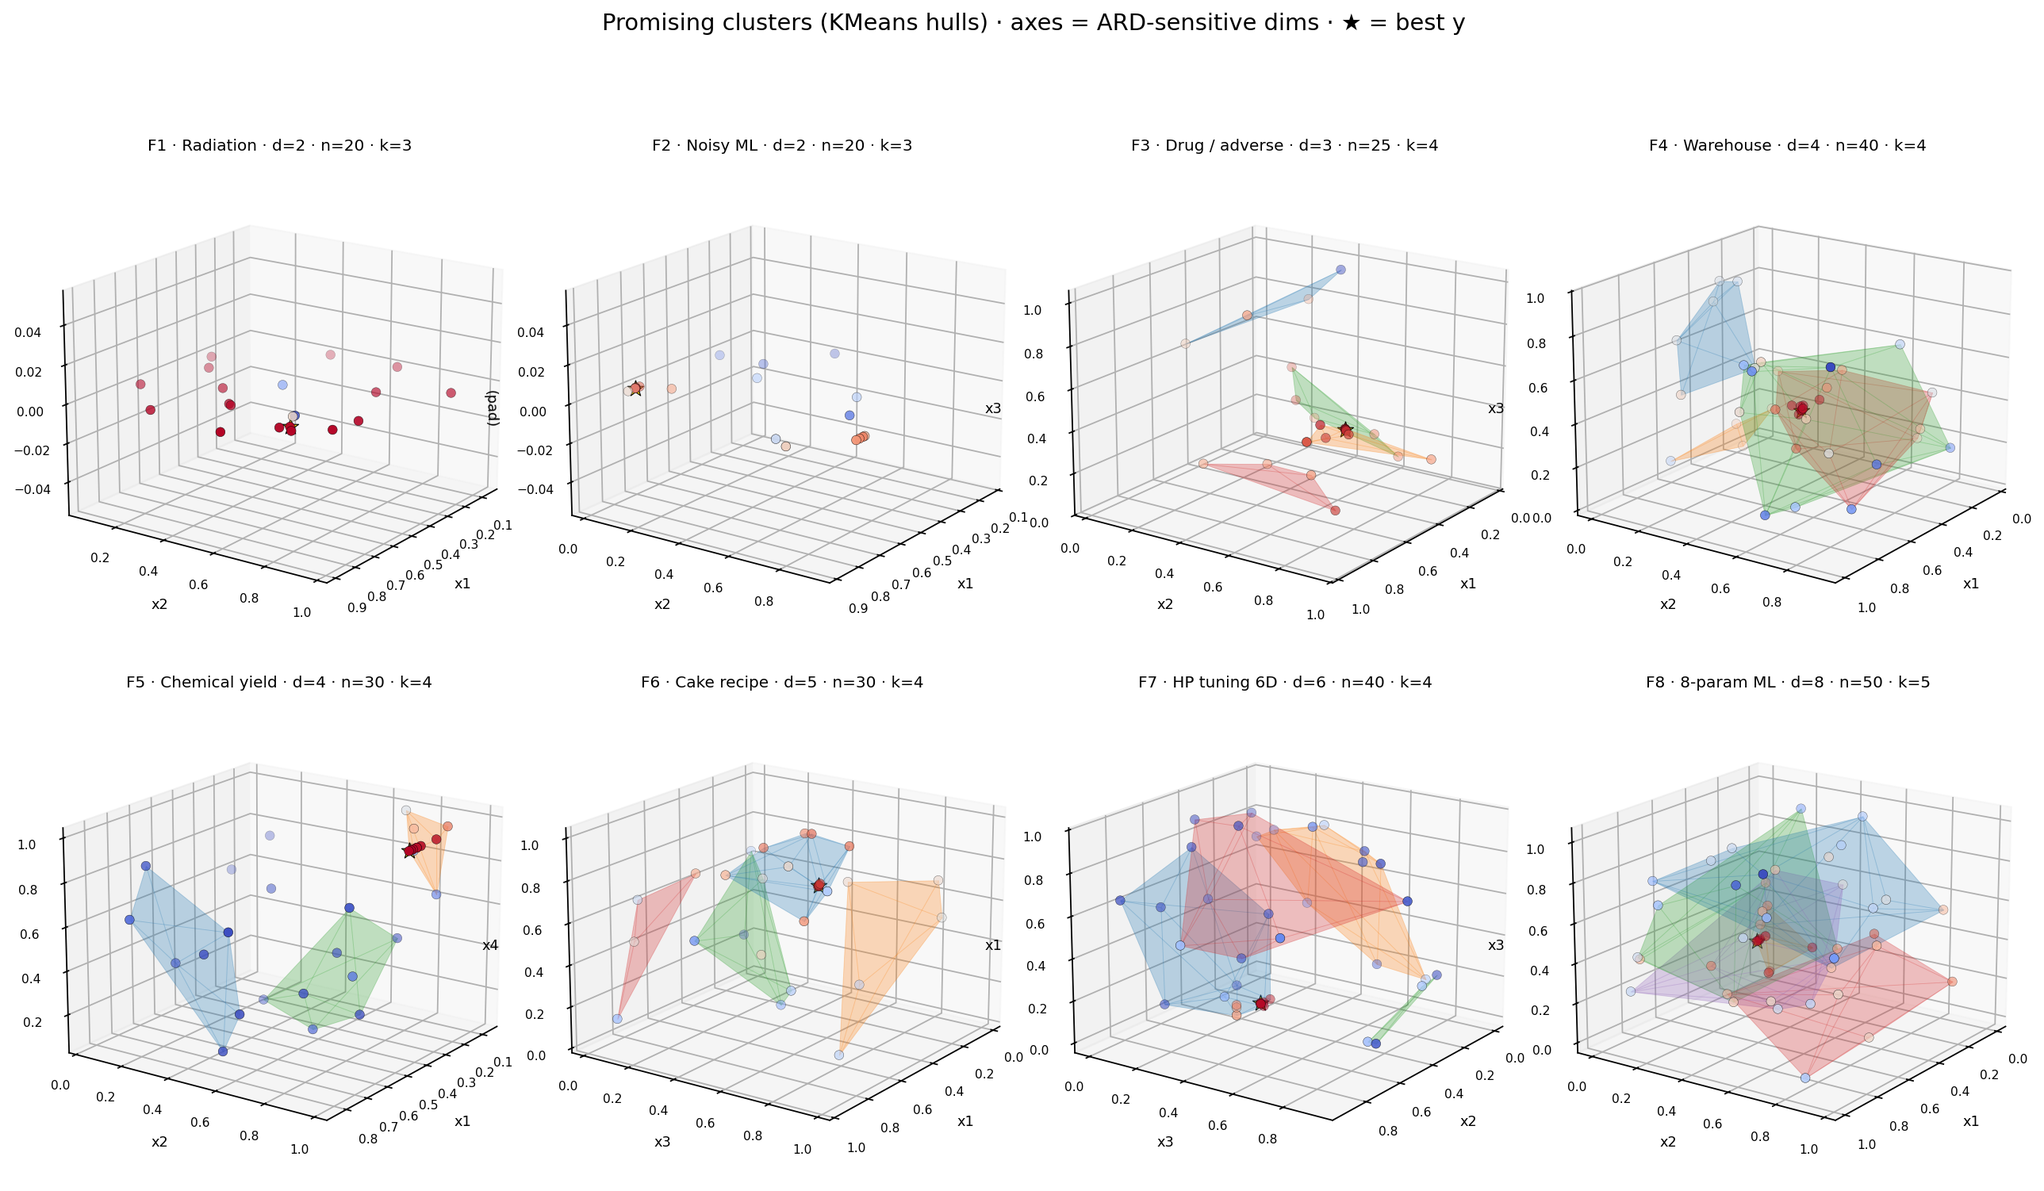
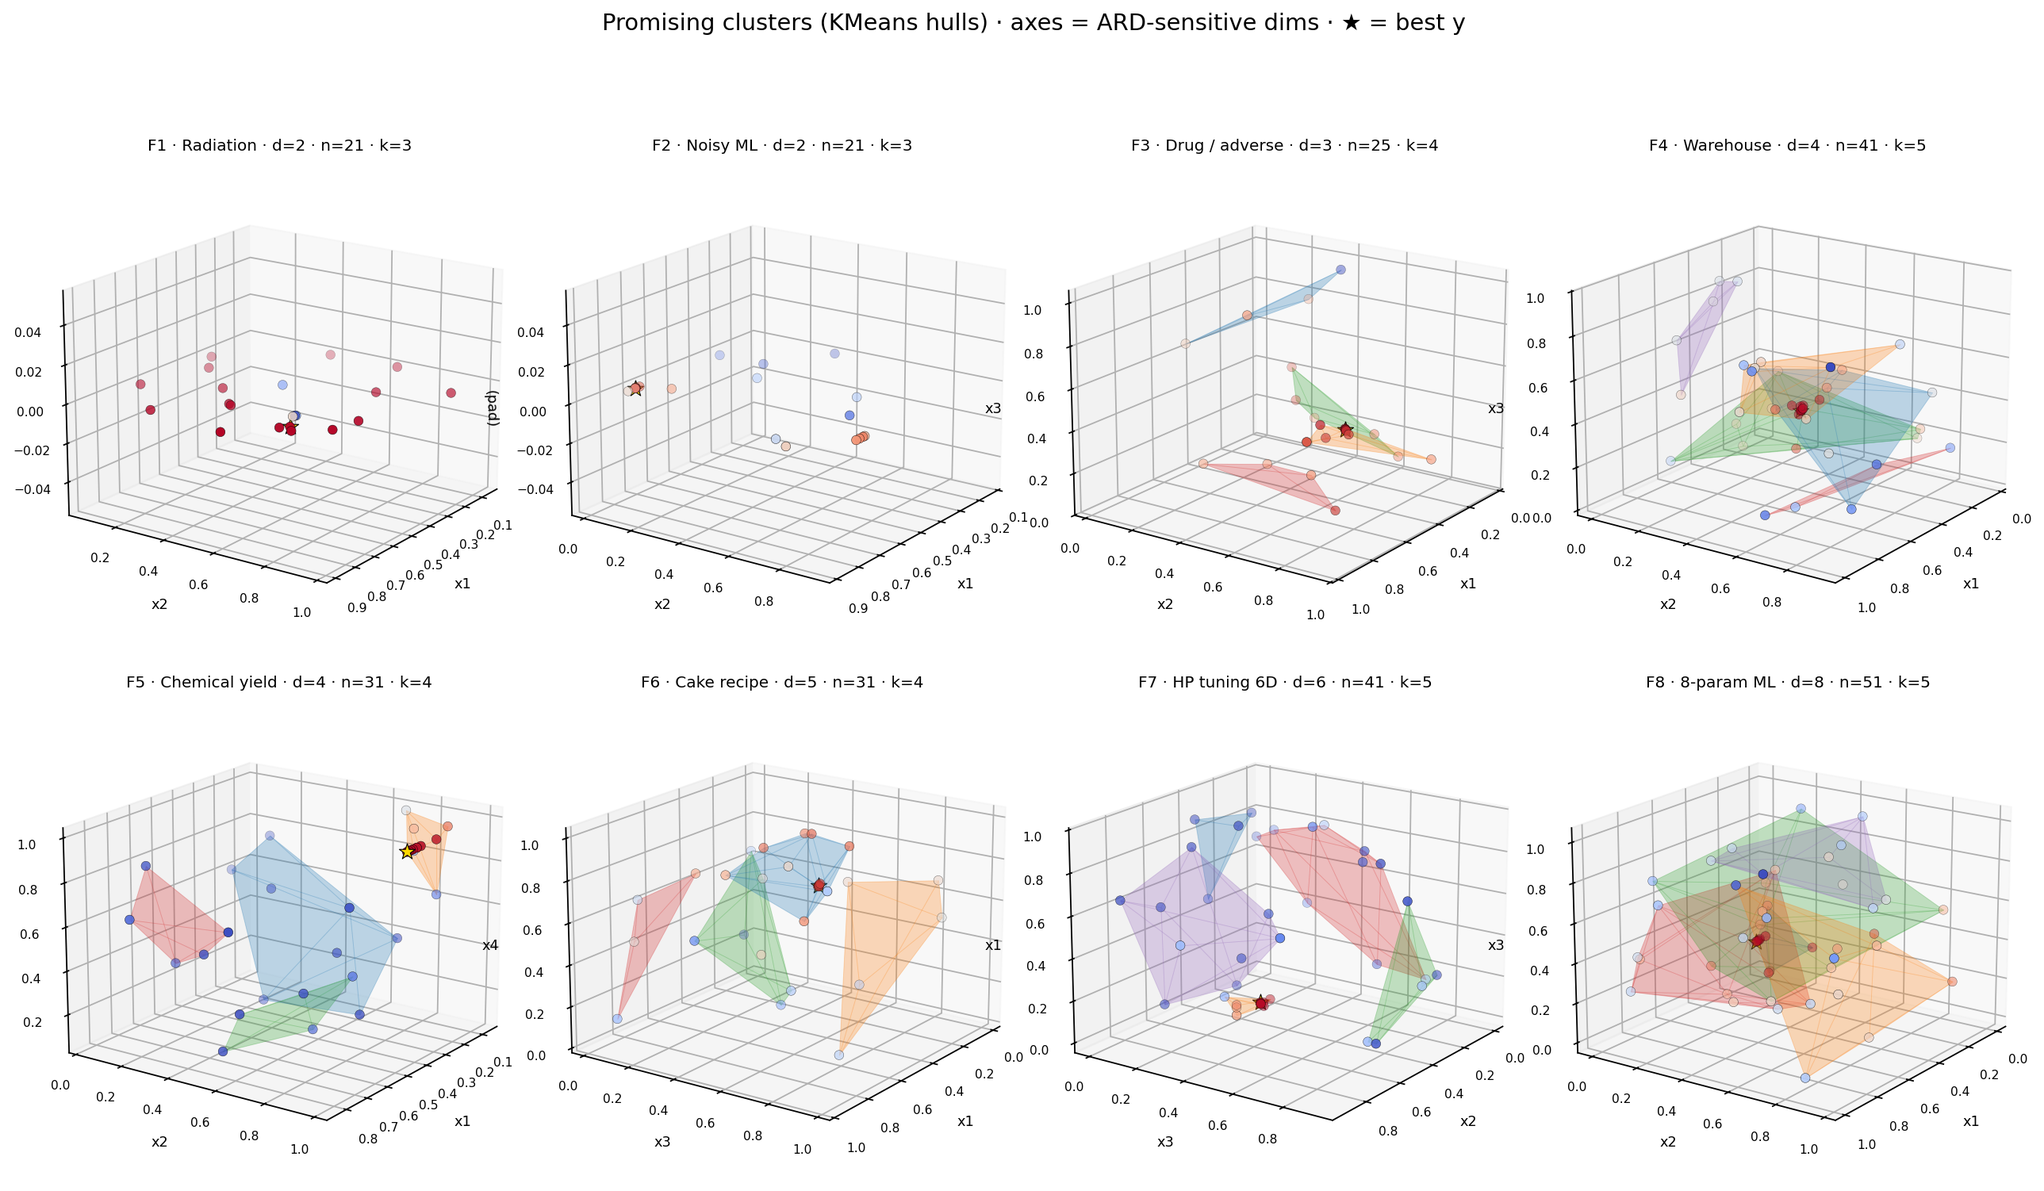
Record Week 11 results, prepare Week 12 PCA package, refresh 23.2 presentation.

diff --git a/scripts/append_week11.py b/scripts/append_week11.py
@@ -1,0 +1,55 @@
+"""Append Week 11 observations to function_*/initial_*.npy (idempotent)."""
+from pathlib import Path
+import numpy as np
+
+ROOT = Path(__file__).resolve().parent.parent
+DATA_ROOT = ROOT / "data"
+
+WK11_X = {
+    1: [0.638000, 0.685000],
+    2: [0.717800, 0.019800],
+    3: [0.492580, 0.691600, 0.401000],
+    4: [0.403000, 0.414000, 0.356000, 0.412000],
+    5: [0.430000, 0.980000, 0.980000, 0.980000],
+    6: [0.443000, 0.247000, 0.593000, 0.727000, 0.129000],
+    7: [0.072000, 0.426000, 0.301000, 0.156000, 0.344000, 0.670000],
+    8: [0.142000, 0.062000, 0.212000, 0.048000, 0.412000, 0.512000, 0.218000, 0.915000],
+}
+WK11_Y = {
+    1: -0.006229646540338885,
+    2: 0.5482414152470184,
+    3: -0.02668306040308618,
+    4: 0.6751664286960275,
+    5: 3789.507062964496,
+    6: -0.37218816139913213,
+    7: 1.8664969679788408,
+    8: 9.8721655,
+}
+
+for fn in range(1, 9):
+    base = DATA_ROOT / f"function_{fn}"
+    X = np.load(base / "initial_inputs.npy")
+    Y = np.load(base / "initial_outputs.npy")
+    x = np.array(WK11_X[fn], dtype=float)
+    y = float(WK11_Y[fn])
+    if len(Y) >= 1 and np.allclose(X[-1], x, atol=1e-8):
+        Y[-1] = y
+        how = "updated"
+    else:
+        hit = False
+        for i in range(len(Y)):
+            if np.allclose(X[i], x, atol=1e-8):
+                Y[i] = y
+                hit = True
+                how = "updated-mid"
+                break
+        if not hit:
+            X = np.vstack([X, x.reshape(1, -1)])
+            Y = np.append(Y, y)
+            how = "appended"
+    np.save(base / "initial_inputs.npy", X)
+    np.save(base / "initial_outputs.npy", Y)
+    prev = float(Y[:-1].max()) if len(Y) > 1 else float("-inf")
+    # if updated mid, recompute prev without this y carefully
+    best = float(Y.max())
+    print(f"F{fn}: {how} | y={y:.6g} | {'IMPROVED' if y > prev else 'no'} | best={best:.6g} | n={len(Y)}")

diff --git a/docs/BBO_PRESENTATION_23_2.md b/docs/BBO_PRESENTATION_23_2.md
@@ -1,6 +1,6 @@
 # BBO Capstone Presentation (Component 23.2) — Fill-in text
 
-*Copy each section into the PDF template. First person. Based on work through Week 10 (5/8 improved) and Week 11 submitted.*
+*Copy each section into the PDF template. First person. Updated after Week 11 (4/8 improved: F4, F5, F7, F8).*
 
 ---
 
@@ -16,17 +16,17 @@ My overall strategy is Bayesian optimisation. I fit a Gaussian Process surrogate
 
 Early rounds were broad: one GP + acquisition style for most functions, with more exploration and occasional queries pulled toward empty high-uncertainty corners. That taught me scale and sign, but it also produced wasted steps and boundary artefacts.
 
-Data and failed weeks drove the change. Leaving a known good region without evidence hurt F2 and F6; micro-steps that were too large underperformed on F7; F1 stayed near zero until I stopped polishing a null lobe near (0.73, 0.73) and tested a peer-supported basin near (0.64, 0.68), which finally returned a measurable reading. Wins on F4, F5 and F8 from Week 8 onward rewarded tight local exploit.
+Data and failed weeks drove the change. Leaving a known good region without evidence hurt F2 and F6; micro-steps that were too large underperformed on F7; F1 stayed near zero until I stopped polishing a null lobe near (0.73, 0.73) and tested a peer-supported basin near (0.64, 0.68), which finally returned measurable readings (Week 10 ≈−0.008, Week 11 ≈−0.006). Wins on F4, F5 and F8 from Week 8 onward — and again on F4/F5/F7/F8 in Week 11 — rewarded tight local exploit. Week 11’s F6 drop (−0.136 → −0.372) after a small step off the Week 10 centroid reconfirmed that “nearby” is not enough on a sharp basin.
 
-Heuristics that now guide my queries: (1) stay inside a proven high-y cluster unless diagnostics say otherwise; (2) move only the sensitive dimensions (ARD length scales); (3) keep trust-region steps small late in the budget; (4) treat F1 with a trust gate — exploit only after non-null signal appears.
+Heuristics that now guide my queries: (1) stay inside a proven high-y cluster unless diagnostics say otherwise; (2) move only the sensitive dimensions (ARD length scales / PCA-style principal axes); (3) keep trust-region steps small late in the budget; (4) treat F1 with a trust gate — exploit only after non-null signal appears; (5) hard-return to the incumbent centroid after a failed neighbour step (F6).
 
 ---
 
 ## 3. Patterns, data and insights
 
-The clearest trend is uneven progress: mid-to-late weeks brought repeated gains on F4, F5, F6, F7 and F8 when I stayed local, while F1 and F2 needed special handling (sparse peak / noise). Week 10 was especially strong — five new bests — and opened an F1 signal cluster that earlier space-fill never found.
+The clearest trend is uneven but compounding progress on the mid/high-D functions when I stay local: Weeks 8–11 repeatedly lifted F4, F5, F7 and F8. Week 10 was the strongest single week (5/8); Week 11 added four more bests while F6 failed and F2 missed the 0.777 needle. F1’s signal cluster near (0.64, 0.68) is now validated twice.
 
-Variables that matter most differ by function. F5 is driven by x₁ along a high x₂–x₄ face (ridge climb 0.38→0.42→…). F2 lives on a sharp ridge near high x₁ and very low x₂. F3 is dominated by x₃ (safe vs toxic). F7/F8 behave like a few active coordinates plus flatter ones I largely freeze. That matches an ARD / “principal direction” view of the box: not every input deserves equal movement.
+Variables that matter most differ by function. F5 is driven by x₁ along a high x₂–x₄ face (ridge climb 0.38→0.43→…). F2 lives on a sharp ridge near high x₁ and very low x₂. F3 is dominated by x₃ (safe vs toxic). F7/F8 behave like a few active coordinates plus flatter ones I largely freeze. That matches an ARD / “principal component” view of the box: not every input deserves equal movement.
 
 These observations changed how I see search: the unit hypercube is not eight independent knobs. It is a set of local basins and ridges. My job is to identify which cluster is real, compress the search around it, and stop spending queries on orthogonal noise.
 
@@ -36,7 +36,7 @@ These observations changed how I see search: the unit hypercube is not eight ind
 
 I balance exploration and exploitation by phase and by evidence. Early weeks explored more; with ~20+ points I skew to exploitation inside trust regions. Exploration remains only where the model is untrusted (historical F1) or where a sensitive axis still moves best-y (F5’s x₁ walk).
 
-Example that worked: Week 8–10 local exploit on F4/F5/F8 (and F6’s return-to-basin in Week 10) produced sustained best-y gains because the neighbourhood was already validated. Example that failed: chasing global acquisition or leaving F2’s 0.777 peak for a slightly wrong x₁ (the 0.72 “cliff”) dropped performance — the landscape was sharper than a smooth GP step assumed.
+Example that worked: Week 8–11 local exploit on F4/F5/F7/F8 produced sustained best-y gains because the neighbourhood was already validated. Example that failed: leaving F2’s 0.777 peak or F6’s −0.136 centroid for a slightly wrong neighbour dropped performance — the landscape was sharper than a smooth GP step assumed.
 
 When results disagree with expectation, I do not inflate the model’s confidence. I shrink the step, return toward the incumbent with a new tiny offset, check noise (WhiteKernel on F2), or reopen a different cluster (F1’s switch from the null 0.73 lobe to 0.64/0.68). Uncertainty is used as a reason to sample carefully, not as a licence to jump to box corners.
 
@@ -44,7 +44,7 @@ When results disagree with expectation, I do not inflate the model’s confidenc
 
 ## 5. Next steps and reflection
 
-Next I will keep compressing trust regions around the Week 10 incumbents, continue the F5 ridge in small x₁ steps, pull F2 toward the historical 0.777 centroid, and micro-exploit F1’s signal lobe. For the final Module 24 round I plan near-pure exploitation if the next returns keep improving, with only a one-step pivot to a secondary cluster if a subspace bet goes flat.
+Next (Week 12 / toward Module 24) I continue the F5 ridge in small x₁ steps, micro-exploit the new F4/F7/F8 incumbents, pull F2 toward the historical 0.777 centroid, protect F3’s −0.011 coords, hard-return F6 to the Week 10 cake cluster, and stay inside F1’s signal lobe. For the final Module 24 round I plan near-pure exploitation if these recoveries and climbs hold, with only a one-step pivot to a secondary cluster if a subspace bet goes flat again.
 
 In the wider ML landscape this project is sequential decision-making under a tiny data budget — the same setting as hyperparameter tuning, A/B tests, and experimental design. Gaussian Processes with acquisition functions are a standard tool when evaluations are expensive and uncertainty must drive the next trial.
 

diff --git a/weeks/WEEK12_DISCUSSION.md b/weeks/WEEK12_DISCUSSION.md
@@ -1,0 +1,31 @@
+# Week 12 Discussion — PCA / variance lens (12th round)
+
+*Copy-paste for the discussion board. First person. Under 700 words.*
+
+---
+
+**How my optimisation strategy has evolved**
+
+In the early rounds I treated each black box more uniformly: fit a Gaussian Process, maximise EI or UCB over a wide box, and hope the acquisition surface pointed somewhere useful. That taught me sign and scale, but it also produced boundary artefacts and wasted steps in empty regions. As the history grew past ~20 points per function, the process became far more structured. I now keep a per-function policy: Matérn smoothness and noise settings, ARD length-scale diagnostics, explicit locks (F3’s safe x₃ band, F5’s high x₂–x₄ face), boundary penalties, and a trust-region radius around the incumbent. Weeks 8–11 rewarded that discipline: repeated gains on F4, F5, F7 and F8 when I stayed local, plus an F1 signal lobe near (0.64, 0.68) that space-fill never found. Week 11’s F6 collapse (−0.136 → −0.372) after a small step off the Week 10 cake centroid was the reminder that “nearby” is not enough if the principal basin is sharp — so Week 12 returns hard to that centroid.
+
+**Which variables drive the most variation (PCA ↔ ARD)**
+
+I do not run PCA as my weekly optimiser, but ARD length scales play the same role as principal components: they say which coordinates explain variation in y and which are nearly redundant. Empirically:
+
+- **F5:** almost all late progress rides on x₁ along a locked high face — a one-dimensional ridge, like a dominant PC.
+- **F2:** a thin ridge near high x₁ and very low x₂; tiny misses drop from 0.777 to ~0.55.
+- **F3:** x₃ separates safe from toxic; other coords are secondary once that band is set.
+- **F7 / F8:** a few active knobs plus flatter ones I largely freeze.
+- **F4 / F6:** local basins in a low-dimensional active set; moving orthogonal to that set burns the weekly budget (F6 Week 11).
+
+**Explore vs simplify — what I keep and what I lock**
+
+I still explore only where the model is untrusted or a sensitive axis is still climbing (F1’s signal lobe; F5’s x₁ walk). Everywhere else I simplify: freeze inactive dimensions, shrink the trust radius, and query inside the proven cluster. Week 12 queries follow that split — ridge continue on F5, micros on F4/F7/F8, and **recovery** to historical centroids on F2/F3/F6 rather than fresh global search.
+
+**Influence on the Module 24 final round**
+
+If Week 12 keeps raising F4/F5/F7/F8 and repairs F6, the final round should be near-pure exploitation on compressed neighbourhoods. If a recovery fails, I allow one pivot to a secondary cluster — the same decision a PCA pipeline makes when a putative component stops explaining variance. I will not reopen full-box exploration this late unless a function is still null.
+
+**How PCA-style thinking changes how I read BBO results**
+
+Focusing on variance and redundancy reframes each portal return: a new best on a sensitive axis confirms that component; a drop after moving a “flat” coordinate suggests I spent budget on noise. The unit hypercube is not eight independent knobs — it is a low-effective-dimensional manifold of basins and ridges. My job is to identify that manifold, discard orthogonal motion, and spend the last queries where the data already say the variation lives.

diff --git a/README.md b/README.md
@@ -6,7 +6,7 @@ Imperial PCMLAI Stage 2: maximise **eight unknown black-box functions** (2D–8D
 |--|--|
 | **Surrogate** | Gaussian Process (Matérn + ARD; WhiteKernel on F2; log-y on F5) |
 | **Acquisition** | EI / UCB + trust-region exploit; trust gate when signal is absent (F1) |
-| **Status** | **Week 10 done (5/8 improved)** · **Week 11 ready** (clustering lens) |
+| **Status** | **Week 11 done (4/8 improved)** · **Week 12 ready** (PCA / ARD lens) |
 
 ---
 
@@ -20,9 +20,9 @@ Imperial PCMLAI Stage 2: maximise **eight unknown black-box functions** (2D–8D
 | **Interactive dashboard** | [`reports/progress/bbo_progress_report.html`](reports/progress/bbo_progress_report.html) |
 | **23.2 presentation draft** | [`docs/BBO_PRESENTATION_23_2.md`](docs/BBO_PRESENTATION_23_2.md) |
 | **Main pipeline** | [`notebooks/BBO_Capstone_Optimized.ipynb`](notebooks/BBO_Capstone_Optimized.ipynb) |
-| **Week 10 reflection** | [`weeks/WEEK10_REFLECTION.md`](weeks/WEEK10_REFLECTION.md) |
-| **Week 11 portal queries** | [`weeks/WEEK11_STRATEGY.md`](weeks/WEEK11_STRATEGY.md) |
-| **Week 11 discussion** | [`weeks/WEEK11_DISCUSSION.md`](weeks/WEEK11_DISCUSSION.md) |
+| **Week 11 reflection** | [`weeks/WEEK11_REFLECTION.md`](weeks/WEEK11_REFLECTION.md) |
+| **Week 12 portal queries** | [`weeks/WEEK12_STRATEGY.md`](weeks/WEEK12_STRATEGY.md) |
+| **Week 12 discussion** | [`weeks/WEEK12_DISCUSSION.md`](weeks/WEEK12_DISCUSSION.md) |
 
 ---
 
@@ -59,20 +59,20 @@ Regenerate: `python scripts/make_cluster_gallery.py`
 
 ---
 
-## Best so far (after Week 10)
+## Best so far (after Week 11)
 
 | Fn | Task | Dim | Best y (approx.) | Note |
 |----|------|-----|------------------|------|
-| F1 | Radiation | 2 | ~0 | Signal cluster ~0.64/0.68 (W10) |
-| F2 | Noisy ML | 2 | **0.777** | W10 recovered to 0.72 |
+| F1 | Radiation | 2 | ~0 | Signal lobe ~0.64/0.68 (W10–W11) |
+| F2 | Noisy ML | 2 | **0.777** | W11 miss 0.55; return to peak |
 | F3 | Drug side-effects | 3 | **−0.011** | Safe x₃ band |
-| F4 | Warehouse | 4 | **0.667** | W10 |
-| F5 | Chemical yield | 4 | **3779** | Ridge x₁→0.42 |
-| F6 | Cake recipe | 5 | **−0.136** | W10 jump |
-| F7 | HP tuning 6D | 6 | **1.863** | W10 |
-| F8 | 8-param ML | 8 | **9.871** | W10 |
+| F4 | Warehouse | 4 | **0.675** | W11 |
+| F5 | Chemical yield | 4 | **3790** | Ridge x₁→0.43 |
+| F6 | Cake recipe | 5 | **−0.136** | W10 still best (W11 −0.37) |
+| F7 | HP tuning 6D | 6 | **1.866** | W11 |
+| F8 | 8-param ML | 8 | **9.872** | W11 |
 
-**Week 8:** 3/8 · **Week 9:** 4/8 · **Week 10:** **5/8** (F4–F8).
+**Week 8:** 3/8 · **Week 9:** 4/8 · **Week 10:** 5/8 · **Week 11:** **4/8** (F4, F5, F7, F8).
 
 ---
 
@@ -84,7 +84,7 @@ All live under [`weeks/`](weeks/):
 - `WEEK*_REFLECTION.md` — post-result analysis  
 - `WEEK*_DISCUSSION.md` — forum posts  
 
-Latest: [`WEEK11_STRATEGY.md`](weeks/WEEK11_STRATEGY.md) · [`WEEK11_DISCUSSION.md`](weeks/WEEK11_DISCUSSION.md)
+Latest: [`WEEK12_STRATEGY.md`](weeks/WEEK12_STRATEGY.md) · [`WEEK12_DISCUSSION.md`](weeks/WEEK12_DISCUSSION.md) · [`WEEK11_REFLECTION.md`](weeks/WEEK11_REFLECTION.md)
 
 ---
 

diff --git a/weeks/WEEK11_REFLECTION.md b/weeks/WEEK11_REFLECTION.md
@@ -1,0 +1,48 @@
+# Week 11 Reflection — Black-Box Bayesian Optimisation
+
+*Results after Week 11 portal submission (clustering lens).*
+
+## Headline
+
+**4 of 8 improved** — **F4, F5, F7, F8**. Ridge / local-basin bets paid again. **F6 collapsed** (−0.136 → −0.372) after a small step off the Week 10 cake centroid. F2 missed the 0.777 needle (0.548). F1 stayed in the signal lobe (−0.006).
+
+## Week 11 results
+
+| Fn | Prior best → W11 y | Improved? | Notes |
+|----|--------------------|-----------|--------|
+| F1 | ~0 | −0.00623 | Signal cluster held (better than W10 −0.008; still not max-best) |
+| F2 | **0.777** | 0.548 | No — near centroid but ridge is sharp / noisy |
+| F3 | **−0.011** | −0.027 | No — safe x₃ held; did not reclaim peak |
+| **F4** | 0.667 | **0.675** | **Yes** |
+| **F5** | 3779 | **3790** | **Yes** — ridge x₁=0.43 |
+| F6 | **−0.136** | −0.372 | No — left W10 centroid; **return next week** |
+| **F7** | 1.863 | **1.866** | **Yes** |
+| **F8** | 9.871 | **9.872** | **Yes** |
+
+## What worked
+
+- Trust-region micro-steps on F4 / F7 / F8 kept ticking.
+- F5 ridge climb 0.42→**0.43** continues to raise yield.
+
+## What did not
+
+- F6: exploiting “next to” W10 best was still too far — treat −0.136 x as hard centroid.
+- F2: 0.7178/0.0198 ≠ 0.777 peak; need closer to historical [≈0.7179, 0.0200].
+- F3: local return insufficient; stay locked on best x₃≈0.401.
+
+## Cumulative best after Week 11
+
+| Fn | Best y | Note |
+|----|--------|------|
+| F1 | ~0 (signal lobe open) | Keep ~[0.64, 0.68] |
+| F2 | **0.777** | Return to [≈0.718, 0.02] |
+| F3 | **−0.011** | Protect peak coords |
+| F4 | **0.675** | W11 |
+| F5 | **3790** | W11 ridge |
+| F6 | **−0.136** | W10 still incumbent |
+| F7 | **1.866** | W11 |
+| F8 | **9.872** | W11 |
+
+## Week 12 focus
+
+PCA / ARD lens: move only sensitive axes; **return F6 to W10 cluster**; pull F2 to historical best; continue F5 x₁; micro-exploit F4/F7/F8. See [`WEEK12_STRATEGY.md`](WEEK12_STRATEGY.md).

diff --git a/weeks/WEEK12_STRATEGY.md b/weeks/WEEK12_STRATEGY.md
@@ -1,0 +1,41 @@
+# Week 12 Strategy — PCA / ARD lens (12th round)
+
+*After Week 11 (4/8 improved: F4, F5, F7, F8). Compress on principal / sensitive axes; recover F6.*
+
+## Policy
+
+| Mode | Functions | Action |
+|------|-----------|--------|
+| **Continue PC climb** | F5 | x₁ → 0.44 on locked high face |
+| **Micro on new best** | F4, F7, F8 | Tiny offsets from W11 incumbents |
+| **Return to true centroid** | F6, F2, F3 | W10 / historical best neighbourhood |
+| **Signal lobe** | F1 | Stay in ~0.64/0.68; small step |
+
+## Approved portal block
+
+```
+Function 1:  0.636000-0.687000
+Function 2:  0.717900-0.020000
+Function 3:  0.492600-0.691500-0.401000
+Function 4:  0.404000-0.413000-0.355000-0.413000
+Function 5:  0.440000-0.980000-0.980000-0.980000
+Function 6:  0.440000-0.250000-0.590000-0.728000-0.132000
+Function 7:  0.073000-0.425000-0.300000-0.157000-0.345000-0.671000
+Function 8:  0.143000-0.061000-0.211000-0.049000-0.413000-0.511000-0.217000-0.916000
+```
+
+## One-line rationale
+
+| Fn | Why |
+|----|-----|
+| F1 | Signal cluster micro (W11 −0.006 confirmed lobe) |
+| F2 | Toward historical 0.777 at [0.7179, 0.02] |
+| F3 | Exact-neighbour of −0.011 peak; x₃ locked |
+| F4 | Local step from W11 0.675 |
+| F5 | Ridge continue x₁=0.44 |
+| F6 | **Hard return** toward W10 −0.136 centroid (W11 −0.372 was a miss) |
+| F7 | Micro from W11 1.866 |
+| F8 | Micro from W11 9.872 |
+
+Discussion: [`WEEK12_DISCUSSION.md`](WEEK12_DISCUSSION.md).  
+Reflection after results: update when portal `y` arrives.

diff --git a/weeks/WEEK11_STRATEGY.md b/weeks/WEEK11_STRATEGY.md
@@ -1,6 +1,6 @@
 # Week 11 Strategy — Clustering lens (11th round)
 
-*After Week 10 (5/8 improved). Queries chosen by targeting proven local clusters / basins.*
+*Complete — **4/8 improved** (F4, F5, F7, F8). See [`WEEK11_REFLECTION.md`](WEEK11_REFLECTION.md).*
 
 ## Cluster map (entering Week 11)
 
